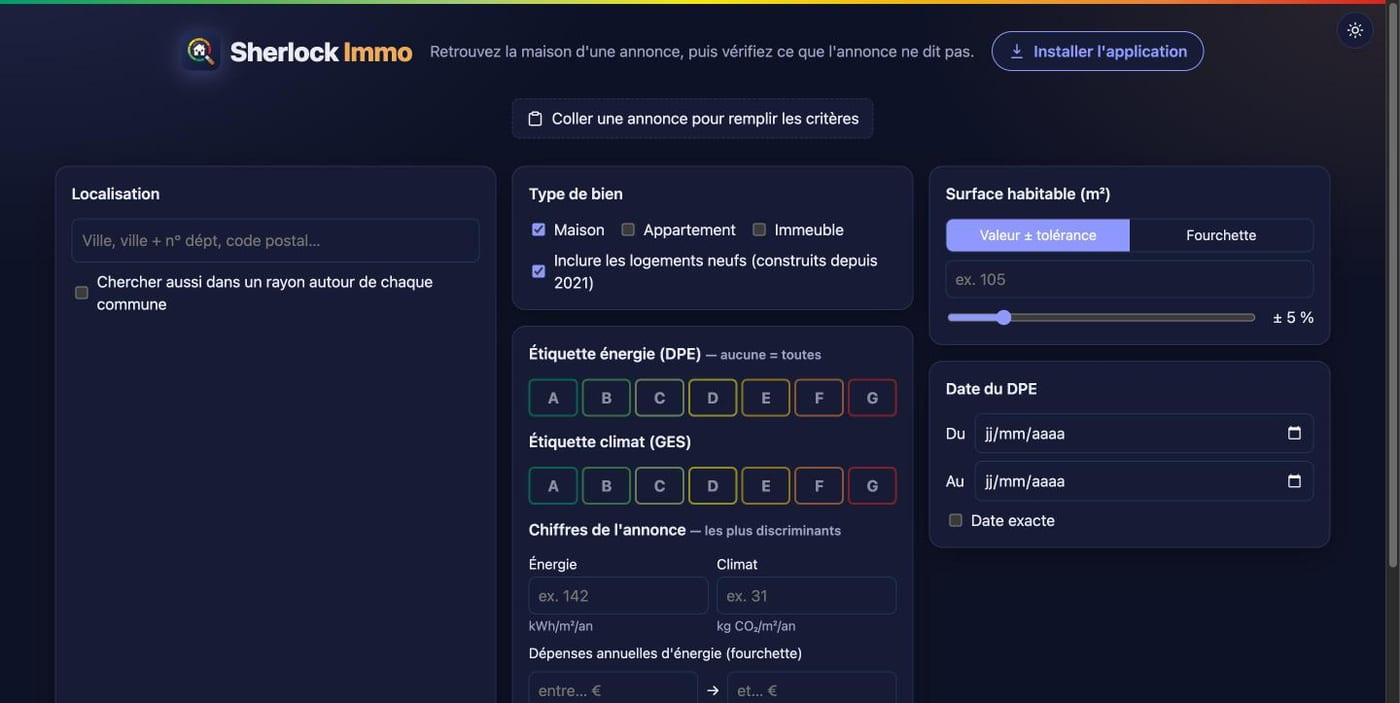
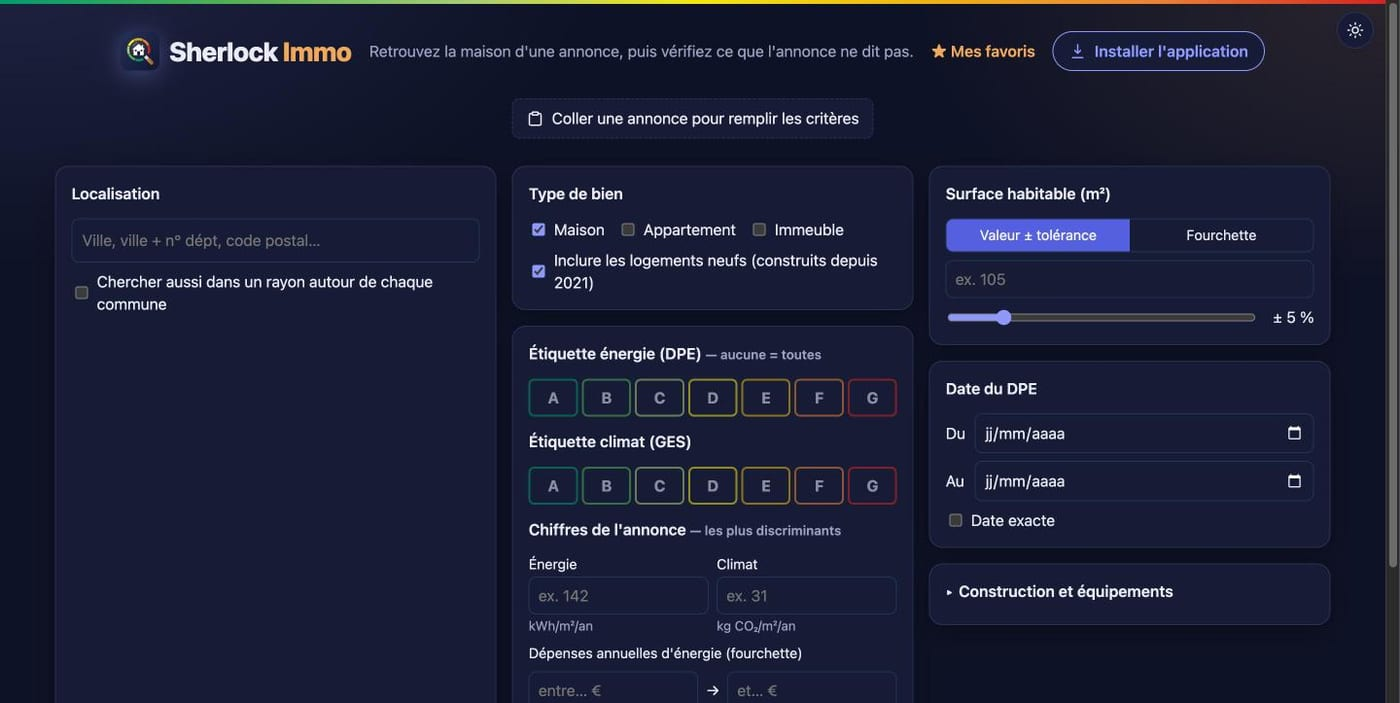
Documentation et version 1.1.0
- README, guide et architecture à jour (composables, accès réseau, limite
  de l'API ADEME, accessibilité, favoris, comparateur, dossier imprimable)
- CHANGELOG 1.1.0, nouvelle capture de l'accueil

Changed region(s): [[0.0921, 0.0299, 0.8907, 0.1195], [0.6757, 0.2987, 0.8293, 0.3585], [0.6757, 0.8364, 0.86, 0.8663]]

diff --git a/docs/ARCHITECTURE.md b/docs/ARCHITECTURE.md
@@ -8,9 +8,10 @@ Sherlock Immo est une application **100 % front-end**. Il n'y a ni serveur ni ba
 |---|---|
 | Interface | [Vue 3](https://vuejs.org) (Composition API, `<script setup>`) + TypeScript |
 | Build | [Vite](https://vite.dev) |
-| Carte | [Leaflet](https://leafletjs.com) + tuiles IGN Géoplateforme |
+| Carte | [Leaflet](https://leafletjs.com) + [leaflet.markercluster](https://github.com/Leaflet/Leaflet.markercluster) + tuiles IGN Géoplateforme |
 | Installation (ordinateur, Android, iOS) | Manifest web + service worker (PWA) |
 | Icônes | [sharp](https://sharp.pixelplumbing.com) (génération des PNG à partir du SVG) |
+| Qualité | Vitest (+ happy-dom), ESLint, Prettier, vue-tsc, axe-core (audit d'accessibilité) |
 
 Aucune autre dépendance à l'exécution.
 
@@ -19,42 +20,56 @@ Aucune autre dépendance à l'exécution.
 ```
 src/
 ├── main.ts                    point d'entrée, enregistrement du service worker
-├── App.vue                    formulaire, état de la recherche, mise en page
-├── style.css                  thème (variables CSS clair / sombre)
+├── App.vue                    mise en page, pages (#sources, #favoris), chargement à la demande
+├── style.css                  thème (variables CSS clair / sombre), accessibilité
+├── styles/
+│   ├── formulaire.css         formulaire de recherche (colonne et page d'accueil)
+│   └── fiche.css              fiche d'un logement, version imprimable
+├── composables/               état partagé, sans dépendance à un composant
+│   ├── useCriteres.ts         critères du formulaire (mémorisés), conversion en filtres d'API
+│   ├── useRecherche.ts        résultats, pagination, sélection, fiche ouverte
+│   ├── useAnnonce.ts          annonce collée → critères
+│   ├── useLienPartage.ts      critères ↔ adresse de la page, bouton Partager
+│   ├── useFiche.ts            chargement de toutes les données d'une fiche
+│   └── useFavoris.ts          favoris, notes, sélection du comparateur (navigateur)
 ├── api/
 │   ├── dpe.ts                 ADEME : recherche, détail, historique, audits
 │   ├── geo.ts                 API Géo : communes, communes voisines
 │   └── territoire.ts          cadastre, PLU, Géorisques, DVF
-├── lib/
-│   ├── verification.ts        règles « points d'attention » (fonctions pures)
+├── lib/                       fonctions pures, testées
+│   ├── http.ts                accès réseau : délai maximal, erreurs lisibles, cache
+│   ├── verification.ts        règles « points d'attention » et questions de visite
 │   ├── annonce.ts             lecture d'une annonce collée (expressions régulières)
-│   ├── lien.ts                critères ↔ paramètres d'adresse (lien partageable)
-│   ├── presse-papiers.ts      copie avec repli
+│   ├── lien.ts                critères ↔ paramètres d'adresse
+│   ├── leaflet.ts             Leaflet + regroupement des points
+│   ├── export-csv.ts, format.ts, saisie.ts, presse-papiers.ts
 │   └── __tests__/             tests Vitest
 └── components/
-    ├── AnnoncePaste.vue       zone « coller une annonce »
-    ├── CityPicker.vue         saisie des communes (+ filtre département)
-    ├── NearbyCommunes.vue     liste à cocher des communes voisines
-    ├── EtiquettePicker.vue    boutons A → G
-    ├── ResultsMap.vue         carte Leaflet
-    ├── ResultsTable.vue       tableau triable
-    ├── DpeDetail.vue          fiche de vérification
-    ├── DpeBadge.vue           pastille d'étiquette
-    ├── InstallButton.vue      bouton « Installer l'application » (aide iOS)
-    ├── SourcesPage.vue        page « Sources et outils » (#sources)
-    └── ThemeToggle.vue        bouton clair / sombre
+    ├── filtres/               un composant par bloc du formulaire (+ SearchForm)
+    ├── fiche/                 une section de fiche par composant
+    ├── DpeDetail.vue          fiche : assemble les sections, favori, impression
+    ├── FavorisPage.vue        page « Mes favoris » (#favoris)
+    ├── Comparateur.vue        comparaison de 2 ou 3 favoris
+    ├── ResultsBar.vue         compteur, partage, export
+    ├── ResultsMap.vue         carte (chargée à la demande)
+    ├── ResultsTable.vue       tableau triable et accessible au clavier
+    ├── AnnoncePaste.vue, CityPicker.vue, NearbyCommunes.vue, EtiquettePicker.vue
+    ├── DpeBadge.vue, InstallButton.vue, SourcesPage.vue, ThemeToggle.vue
 public/
 ├── manifest.webmanifest       description de l'application installable
 ├── sw.js                      service worker (ouverture hors ligne)
+├── og.png                     image d'aperçu des liens partagés
 └── icons/icon.svg             logo, source de toutes les icônes
-scripts/make-icons.mjs         génère les icônes PNG à partir du SVG
+scripts/make-icons.mjs         génère les icônes PNG et og.png à partir du SVG
 ```
+
+Les composables tiennent un **état unique au niveau du module** (`useCriteres`, `useRecherche`, `useFavoris`) : chaque composant qui les appelle lit et modifie le même état, sans passer de props sur plusieurs niveaux. `useFiche` est l'exception : il crée un état par fiche ouverte.
 
 ## Flux d'une recherche
 
 0. Facultatif : `lireAnnonce()` transforme une annonce collée en indices, qui remplissent le formulaire. La commune est retrouvée par le code postal (ou « Ville (35) ») via l'API Géo.
 
-1. `App.vue` transforme le formulaire en `DpeFilters` (la surface « valeur ± tolérance » devient un intervalle, les dates exactes deviennent `gte = lte`, etc.).
+1. `useCriteres().toFilters()` transforme le formulaire en `DpeFilters` (la surface « valeur ± tolérance » devient un intervalle, les dates exactes deviennent `gte = lte`, etc.).
 2. `searchDpe()` construit une requête par base (existants, et neufs si la case est cochée) et par zone. Sans rayon, toutes les communes tiennent en une requête (`code_insee_ban_in`). Avec un rayon, il faut une requête par commune, car l'API n'accepte qu'un seul `geo_distance`.
 3. Les résultats sont fusionnés et dédoublonnés par numéro de DPE. Chaque ligne garde sa base d'origine (`_source`).
 4. « Charger plus » suit le curseur `next` de chaque requête.
@@ -63,7 +78,7 @@ scripts/make-icons.mjs         génère les icônes PNG à partir du SVG
 
 ## Flux de la fiche
 
-`DpeDetail.vue` lance en parallèle, et indépendamment (une panne n'empêche pas le reste de s'afficher) :
+`useFiche()` lance en parallèle, et indépendamment (une panne n'empêche pas le reste de s'afficher) :
 
 - le détail complet du DPE ;
 - l'historique de l'adresse (même `identifiant_ban`, dans les deux bases) ;
@@ -73,11 +88,20 @@ scripts/make-icons.mjs         génère les icônes PNG à partir du SVG
 - le rapport Géorisques ;
 - la zone du PLU sous le point et autour (carré de ±150 m).
 
-Tout est ensuite passé à `analyser()` (`src/lib/verification.ts`), qui renvoie une liste de `Point { niveau, titre, detail }` triée par gravité. Ce sont des **fonctions pures**, sans appel réseau : faciles à lire, à tester et à enrichir.
+Tout est ensuite passé à `analyser()` (`src/lib/verification.ts`), qui renvoie une liste de `Point { niveau, titre, detail, question }` triée par gravité. Les `question` alimentent la section « Questions à poser lors de la visite » du dossier imprimable. Ce sont des **fonctions pures**, sans appel réseau : faciles à lire, à tester et à enrichir.
+
+## Accès réseau
+
+Tous les appels passent par `getJson()` (`src/lib/http.ts`) :
+
+- **délai maximal** de 20 s, puis message « … ne répond pas » ;
+- **erreurs nommées** par service, affichées dans la fiche sans bloquer les autres sections ;
+- **cache** en mémoire et en `sessionStorage` (1 h, réponses de moins de 150 000 caractères) : rouvrir une fiche ne relance aucun appel. Un échec n'est jamais mis en cache ;
+- un abandon côté appelant (nouvelle recherche, fiche fermée) ne coupe pas un téléchargement partagé par une autre partie de l'app.
 
 ## Sources de données
 
-Toutes ont été vérifiées sans clé, avec CORS, et une rafale de requêtes parallèles n'a déclenché aucun refus.
+Toutes sont sans clé et ouvertes en CORS. La **politique de sécurité du contenu** (`vite.config.ts`, ajoutée au build) n'autorise que ces domaines : une nouvelle source doit y être ajoutée.
 
 ### ADEME (data-fair)
 
@@ -94,7 +118,10 @@ Filtres utilisés : `{champ}_eq`, `_in`, `_gte`, `_lte`, `geo_distance=lon,lat,1
 
 - un `select` contenant un champ absent du jeu renvoie une **erreur 400**. La base des neufs n'a pas `qualite_isolation_plancher_haut_comble_perdu` ni `qualite_isolation_plancher_haut_toit_terrasse` ;
 - la consommation et les émissions ont parfois une décimale (186,5) alors que l'annonce affiche un entier : la recherche prend une fenêtre de ±0,5 ;
-- la date de mise à jour du jeu est lue dans `dataUpdatedAt`.
+- la date de mise à jour du jeu est lue dans `dataUpdatedAt` ;
+- **l'API limite le temps de calcul cumulé par utilisateur** : au-delà, elle répond `429` avec `Retry-After` (environ 40 s). Compter le total exact des résultats est l'opération la plus coûteuse : les recherches utilisent `count=estimate` (exact jusqu'à un seuil, estimé au-delà) et les autres appels `count=false` ;
+- le type de générateur (« PAC air/eau installée après 2017 »…) est un libellé libre : le filtre pompe à chaleur utilise une recherche par préfixe, `qs=type_generateur_chauffage_principal:PAC*` ;
+- l'année de construction manque pour environ 40 % des DPE de maisons, la période (`periode_construction`) est toujours renseignée : le filtre utilise donc les périodes.
 
 ### API Géo
 
@@ -111,7 +138,7 @@ Filtres utilisés : `{champ}_eq`, `_in`, `_gte`, `_lte`, `geo_distance=lon,lat,1
 
 ### DVF
 
-`GET https://app.dvf.etalab.gouv.fr/api/mutations3/{codeInsee}/{prefixe}{section}` : toutes les ventes d'une section cadastrale (quelques centaines de Ko). Les valeurs arrivent en chaînes, avec `"nan"` et `"None"` pour les vides. Une vente occupe plusieurs lignes (une par local et par parcelle) qui répètent le prix total : `grouper()` les rassemble.
+`GET https://app.dvf.etalab.gouv.fr/api/mutations3/{codeInsee}/{prefixe}{section}` : toutes les ventes d'une section cadastrale (quelques centaines de Ko). Les valeurs arrivent en chaînes, avec `"nan"` et `"None"` pour les vides. Une vente occupe plusieurs lignes (une par local et par parcelle) qui répètent le prix total : `grouperVentes()` les rassemble (testée dans `__tests__/dvf.test.ts`).
 
 Les fichiers bruts `files.data.gouv.fr/geo-dvf/…` ne sont **pas** utilisables depuis un navigateur : ils redirigent vers un stockage sans en-têtes CORS.
 
@@ -148,13 +175,19 @@ Pour ajouter une règle : écrire la condition dans `analyser()` (ou `analyserTe
 
 ## Tests
 
-`npm test` (Vitest) couvre les fonctions pures : lecture d'annonce, lien partageable, règles de vérification. Les données de test sont **fictives** : n'y mettez jamais les chiffres d'un logement réel, qu'on pourrait retrouver avec l'application.
+`npm test` (Vitest) couvre les fonctions pures : lecture d'annonce, lien partageable, règles de vérification, accès réseau (cache, délais, erreurs, avec `happy-dom`), regroupement des ventes DVF. Les données de test sont **fictives** : n'y mettez jamais les chiffres d'un logement réel, qu'on pourrait retrouver avec l'application.
 
 ## Publication
 
-- `.github/workflows/ci.yml` : tests, types et build sur chaque pull request.
+- `.github/workflows/ci.yml` : ESLint, Prettier, tests, types et build sur chaque pull request.
 - `.github/workflows/deploy.yml` : tests puis build à chaque push sur `main`, publication sur GitHub Pages.
 - `.github/dependabot.yml` : mises à jour mensuelles et groupées des dépendances et des actions. `vite.config.ts` utilise `base: './'` : le même build fonctionne à la racine d'un domaine comme dans un sous-dossier (`/sherlock-immo/`). Le workflow injecte `VITE_REPO_URL`, affichée sur la page Sources et outils.
+
+## Accessibilité
+
+- Tout est utilisable au clavier : tri des colonnes, ouverture d'une fiche depuis le tableau, Échap pour la fermer, saisie des communes au modèle *combobox*.
+- La carte n'est pas indispensable : le tableau donne les mêmes logements.
+- Audit avec axe-core (voir CONTRIBUTING) : aucun défaut sur l'accueil, les résultats, la fiche (thèmes clair et sombre), les favoris et la page Sources.
 
 ## Pistes
 

diff --git a/docs/GUIDE.md b/docs/GUIDE.md
@@ -34,12 +34,13 @@ Commencez large, puis resserrez :
 1. Ville + chiffres énergie et climat. Souvent, ça suffit.
 2. S'il reste plusieurs résultats : ajoutez la **surface**. En mode « Valeur ± tolérance », la jauge à 0 % cherche la valeur exacte (100 m² trouve aussi 100,3 m²). Laissez quelques pourcents de marge, les annonces arrondissent.
 3. Puis la **date du DPE** (« Du » seul = après cette date, « Au » seul = avant, les deux = entre).
+4. Le bloc **Construction et équipements** (replié par défaut) affine encore : période de construction, énergie de chauffage, pompe à chaleur, plain-pied, panneaux photovoltaïques, bon confort d'été. Une case non cochée ne filtre rien.
 
 Par défaut, la recherche inclut les logements neufs et ne montre qu'**un seul DPE par adresse** (le plus récent).
 
 ## 4. Lire les résultats
 
-- Chaque point sur la carte a la couleur de son étiquette énergie. Le fond **Photo aérienne** (bouton en haut à droite de la carte) aide à reconnaître la maison des photos de l'annonce.
+- Chaque point sur la carte a la couleur de son étiquette énergie. Quand ils sont nombreux, les points proches sont regroupés dans une pastille qui indique leur nombre : zoomez ou cliquez dessus pour les séparer. Le fond **Photo aérienne** (bouton en haut à droite de la carte) aide à reconnaître la maison des photos de l'annonce.
 - Le tableau se trie par colonne. **Exporter CSV** récupère la liste.
 - **← Nouvelle recherche** revient au formulaire en gardant vos critères.
 - **Partager** copie un lien vers cette recherche (sur téléphone, ouvre le menu de partage). La personne qui l'ouvre retombe sur les mêmes résultats. Le lien contient les critères, pas d'adresse.
@@ -63,6 +64,10 @@ Ils sont classés du plus grave au plus rassurant :
 
 Un signal n'est pas une preuve. Il vous donne la question à poser : « Quels travaux expliquent le passage de F à E ? », « Pourquoi 140 m² au DPE et 90 m² aux impôts ? ».
 
+### Questions de visite et dossier
+
+La section **Questions à poser lors de la visite** reprend les points d'attention sous forme de questions, plus quelques incontournables. **Imprimer le dossier** (en tête de fiche) produit une version papier ou PDF de la fiche, avec ces questions : de quoi l'emporter à la visite.
+
 ### Le reste de la fiche
 
 - **Par où part la chaleur** : les postes de travaux les plus rentables.
@@ -74,7 +79,13 @@ Un signal n'est pas une preuve. Il vous donne la question à poser : « Quels tr
 - **Historique de l'adresse** : tous les DPE, y compris ceux d'avant 2021.
 - **Voir sur place** : vue de rue, photo aérienne, comparaison avec les photos des années 1950-1965.
 
-## 6. Installer sur téléphone
+## 6. Mettre de côté et comparer
+
+- **☆** (dans le tableau ou en tête de fiche) ajoute le logement à **Mes favoris**.
+- Sur la page **Mes favoris** (lien en haut de page), notez le prix de l'annonce et vos impressions, rouvrez la fiche, ou cochez 2 ou 3 logements puis **Comparer la sélection** : un tableau côte à côte met en vert la meilleure valeur de chaque ligne.
+- Favoris et notes restent dans ce navigateur : ils ne sont envoyés nulle part, et ne passent pas d'un appareil à l'autre.
+
+## 7. Installer sur téléphone
 
 1. Ouvrez l'application dans Safari (iPhone) ou Chrome (Android).
 2. *Partager → Sur l'écran d'accueil* (iPhone) ou *menu ⋮ → Installer l'application* (Android).
@@ -87,4 +98,6 @@ L'icône ouvre Sherlock Immo en plein écran. Une connexion internet reste néce
 
 **Plusieurs résultats à la même adresse ?** Ce sont plusieurs DPE du même immeuble, ou des DPE refaits. Décochez « Un seul DPE par adresse » pour tout voir.
 
-**Mes recherches sont-elles enregistrées quelque part ?** Seulement dans votre navigateur (vos derniers critères et le thème). Les requêtes partent directement vers les services publics, sans passer par un serveur Sherlock Immo.
+**« Trop de demandes d'un coup, réessayez… »** L'API de l'ADEME limite le temps de calcul par utilisateur. Patientez une minute : les fiches déjà ouvertes restent en mémoire.
+
+**Mes recherches sont-elles enregistrées quelque part ?** Seulement dans votre navigateur (derniers critères, favoris, notes, thème). Les requêtes partent directement vers les services publics, sans passer par un serveur Sherlock Immo.

diff --git a/README.md b/README.md
@@ -40,8 +40,9 @@ Or ces chiffres sont publics. Depuis 2021, chaque DPE est enregistré par l'ADEM
 
 - **Collez le texte de l'annonce** : ville, surface, étiquettes, consommation, émissions, dépenses d'énergie, prix et terrain sont repérés et remplissent les critères. L'analyse se fait dans votre navigateur.
 - Par **commune** (plusieurs possibles, avec les communes voisines à cocher), **étiquettes DPE et GES**, **surface habitable** (valeur ± tolérance) et **date du DPE**.
+- Par **construction et équipements** : période de construction, énergie de chauffage, pompe à chaleur, plain-pied, panneaux photovoltaïques, bon confort d'été.
 - Par les **chiffres exacts de l'annonce** : consommation (kWh/m²/an), émissions (kg CO₂/m²/an) et dépenses annuelles d'énergie. Ce sont les critères les plus efficaces : deux chiffres suffisent souvent pour tomber sur une seule maison.
-- Résultats sur une carte (plan ou photo aérienne IGN) et dans un tableau, avec export CSV.
+- Résultats sur une carte (plan ou photo aérienne IGN, points regroupés) et dans un tableau, avec export CSV.
 - **Partagez une recherche par lien** : les critères sont dans l'adresse de la page.
 
 <p align="center">
@@ -57,6 +58,12 @@ Or ces chiffres sont publics. Depuis 2021, chaque DPE est enregistré par l'ADEM
 - **Travaux** : qualité d'isolation paroi par paroi, répartition des pertes de chaleur, chauffage, ventilation, et l'**audit énergétique** chiffré quand il existe.
 - **Risques** (inondation, argiles, radon, sols pollués…) et **urbanisme** (zone du PLU, zones constructibles à proximité).
 - Liens vers la vue de rue, la photo aérienne et les photos aériennes anciennes (pour repérer une extension).
+- **Questions à poser lors de la visite**, générées à partir des points d'attention, et **dossier imprimable** (ou en PDF) de la fiche.
+
+**Comparer**
+
+- **Favoris** avec notes et prix de l'annonce, gardés dans votre navigateur.
+- **Comparateur** de 2 ou 3 logements côte à côte : énergie, facture, surface, chauffage, isolation, prix au m².
 
 <p align="center">
   <img src="docs/images/fiche.jpg" alt="Fiche de vérification d'un logement" width="380" />
@@ -96,6 +103,7 @@ Sherlock Immo n'est affilié à aucun de ces organismes.
 - L'adresse du DPE est celle saisie par le diagnostiqueur, puis géocodée : elle peut être approximative.
 - Les ventes (DVF) couvrent les cinq dernières années et ne comptent ni les ventes en Alsace-Moselle ni celles à Mayotte.
 - Les estimations (facture d'énergie, coût des travaux) sont celles des diagnostics, pas des devis.
+- L'API de l'ADEME limite le temps de calcul par utilisateur : après beaucoup de recherches d'affilée, il faut parfois patienter une minute (l'application l'indique).
 - Ce n'est pas un conseil juridique ni financier. Vérifiez auprès des professionnels concernés (notaire, diagnostiqueur) avant toute décision.
 
 ## Développement
@@ -105,7 +113,9 @@ Prérequis : Node.js 20.19 ou plus récent (22.12 ou plus pour la branche 22).
 ```bash
 npm install
 npm run dev        # http://localhost:5173
-npm test           # tests (lecture d'annonce, lien partageable, règles de vérification)
+npm test           # tests unitaires (Vitest)
+npm run lint       # ESLint
+npm run format     # Prettier
 npm run build      # vérification des types + build statique dans dist/
 ```
 

diff --git a/CHANGELOG.md b/CHANGELOG.md
@@ -2,6 +2,32 @@
 
 Les évolutions notables de Sherlock Immo. Format inspiré de [Keep a Changelog](https://keepachangelog.com/fr/1.1.0/), versions selon [SemVer](https://semver.org/lang/fr/).
 
+## [1.1.0] — 2026-10-24
+
+### Ajouté
+
+- Filtres **Construction et équipements** : période de construction, énergie de chauffage, pompe à chaleur, plain-pied, photovoltaïque, bon confort d'été (repris dans le lien partageable).
+- **Questions à poser lors de la visite**, générées à partir des points d'attention.
+- **Dossier imprimable** de la fiche (papier ou PDF).
+- **Favoris** avec notes et prix, page « Mes favoris ».
+- **Comparateur** de 2 ou 3 logements.
+- Points **regroupés** sur la carte quand ils sont nombreux.
+
+### Amélioré
+
+- Chargement initial divisé par 2,5 : carte, fiche et pages secondaires chargées à la demande.
+- Accès réseau commun : délai maximal, messages d'erreur lisibles, cache (rouvrir une fiche ne relance aucun appel).
+- Requêtes moins coûteuses pour l'API de l'ADEME, qui limite le temps de calcul par utilisateur, et message clair en cas de dépassement.
+- Accessibilité : clavier partout, lecteurs d'écran, Échap pour fermer la fiche ; aucun défaut à l'audit axe.
+- Politique de sécurité du contenu : seuls les services publics utilisés sont joignables.
+
+### Technique
+
+- Code découpé en composables et composants (formulaire, fiche).
+- Mise à jour : Vite 8, Vitest 5, vue-tsc 3, TypeScript 6.
+- ESLint et Prettier vérifiés dans la CI ; 28 tests.
+- Code de conduite et politique de sécurité.
+
 ## [1.0.0] — 2026-10-24
 
 Première version publique.
@@ -30,4 +56,5 @@ Première version publique.
 - Installable (PWA) sur ordinateur, Android et iOS, thème clair et sombre.
 - Page « Sources et outils ».
 
+[1.1.0]: https://github.com/Mateus17/sherlock-immo/releases/tag/v1.1.0
 [1.0.0]: https://github.com/Mateus17/sherlock-immo/releases/tag/v1.0.0
